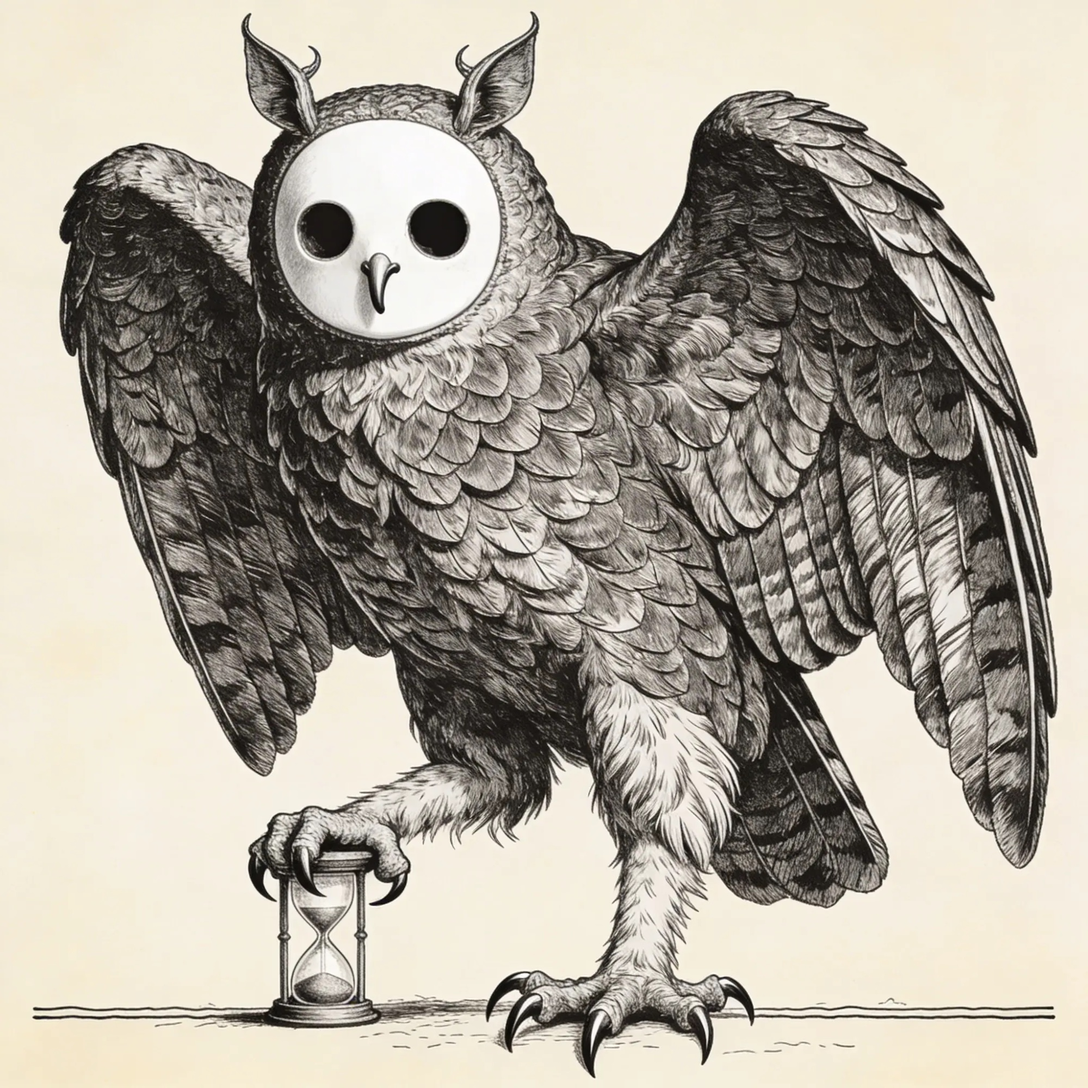
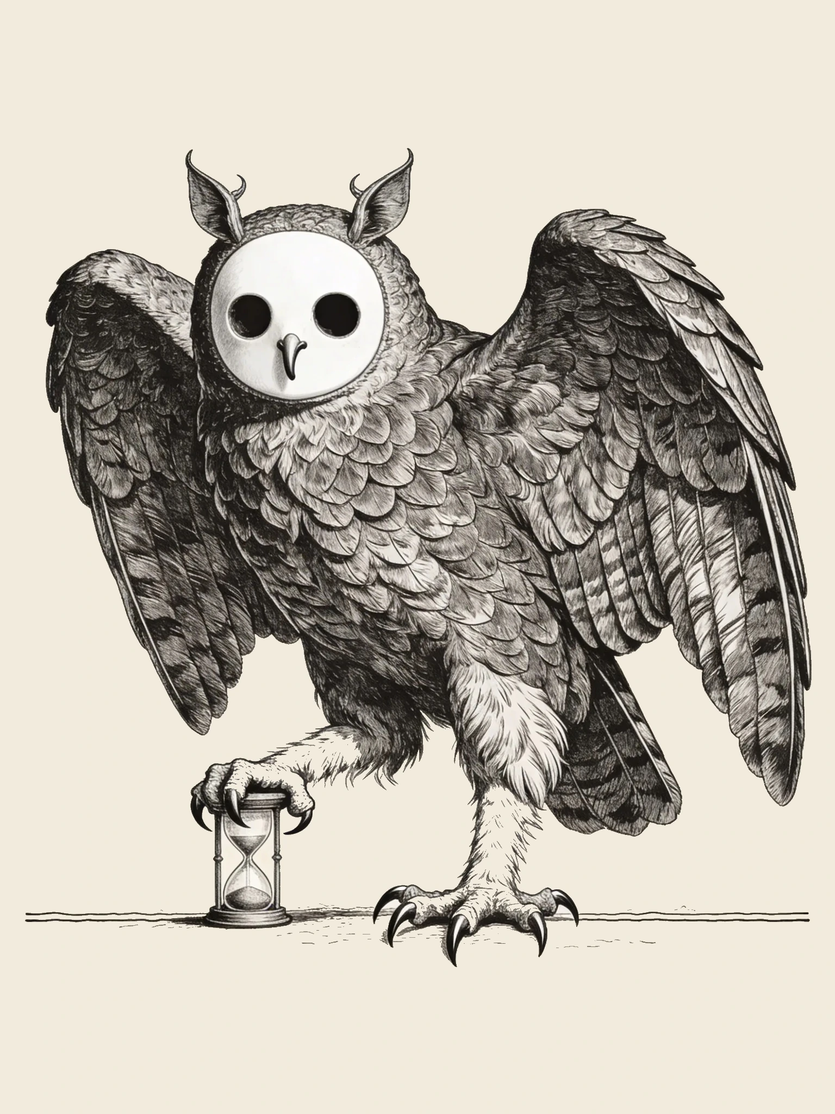
fix: normalize seventh card standard batch

diff --git a/sw.js b/sw.js
@@ -1,5 +1,5 @@
 const BUILD_ID = new URLSearchParams(self.location.search).get("v") || "dev";
-const CACHE_VERSION = "cards-20260528-standard-batch-6";
+const CACHE_VERSION = "cards-20260528-standard-batch-7";
 const CACHE_NAME = `wyrd-runtime-${BUILD_ID}-${CACHE_VERSION}`;
 const RUNTIME_CACHEABLE_DESTINATIONS = new Set(["image", "audio", "video", "font"]);
 
